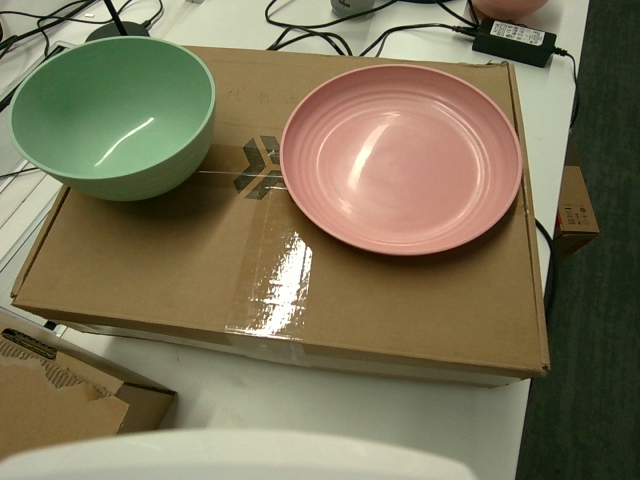
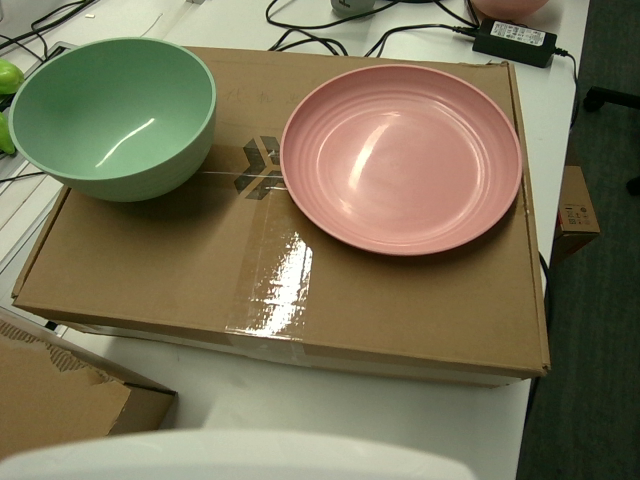
update the code for the audio part

diff --git a/audio.py b/audio.py
@@ -3,15 +3,12 @@ import pyaudio
 import os
 import tempfile
 import sys
+import numpy as np
 from contextlib import contextmanager
 from faster_whisper import WhisperModel
 
 @contextmanager
 def ignore_stderr():
-    """
-    一个上下文管理器，用于暂时屏蔽 C 语言底层的 stderr 输出。
-    主要用于解决 PyAudio 加载时 ALSA 打印大量警告的问题。
-    """
     try:
         devnull = os.open(os.devnull, os.O_WRONLY)
         old_stderr = os.dup(2)
@@ -25,34 +22,29 @@ def ignore_stderr():
 
 class VoiceListener:
     def __init__(self, model_path_or_size="small", device="auto"):
-        """
-        初始化监听模块
-        :param model_size: 模型大小，推荐 'tiny', 'base', 'small' (small 效果最好，base 速度最快且够用)
-        :param device: 'auto', 'cuda' (N卡), or 'cpu'
-        """
-        # print(f"正在加载 Whisper 模型: {model_path_or_size} ...")
+        print(f"🔄 正在加载 Whisper 模型: {model_path_or_size} (Device: {device})...")
         try:
             with ignore_stderr():
                 self.model = WhisperModel(model_path_or_size, device=device, compute_type="int8")
         except Exception as e:
-            print(f"模型加载失败: {e}")
-            print("尝试加载默认 'base' 模型...")
+            print(f"❌ 模型加载失败: {e}")
+            print("⚠ 尝试加载默认 'base' 模型...")
             self.model = WhisperModel("base", device=device, compute_type="int8")
         
         self.recognizer = sr.Recognizer()
         self.recognizer.energy_threshold = 300
         self.recognizer.dynamic_energy_threshold = True
+        self.recognizer.pause_threshold = 0.8
         
         self.mic_index = self._find_ugreen_device_index()
+        self._calibrate_noise()
 
     def _find_ugreen_device_index(self):
-        """增强版查找 UGREEN 设备 (解决乱码问题)"""
         with ignore_stderr():
             p = pyaudio.PyAudio()
             target_index = None
-            # 关键词列表
             keywords = ["UGREEN", "CM379", "USB Audio", "USB PnP"]
-            print("正在扫描音频设备...")
+            print("🔍 正在扫描音频设备...")
             try:
                 info = p.get_host_api_info_by_index(0)
                 numdevices = info.get('deviceCount')
@@ -60,47 +52,47 @@ class VoiceListener:
                     device_info = p.get_device_info_by_host_api_device_index(0, i)
                     if device_info.get('maxInputChannels') > 0:
                         raw_name = device_info.get('name')
-                        # 尝试修复中文乱码
                         try:
                             name = raw_name.encode('latin-1').decode('gbk')
                         except:
                             name = raw_name
-                        # 关键词匹配
                         for k in keywords:
                             if k.lower() in name.lower():
                                 target_index = i
-                                print(f"✅ 成功锁定设备: [{i}] {name}")
+                                print(f"✅ 锁定设备: [{i}] {name}")
                                 return target_index
-            except Exception as e:
-                print(f"设备扫描出错: {e}")
+            except Exception:
+                pass
             finally:
                 p.terminate()
-                
-        if target_index is not None:
-            print(f"\n✅ 成功锁定设备 ID: [{target_index}]")
-        else:
-            print("\n⚠ 未找到 UGREEN 设备，将使用系统默认麦克风")
-            
+        
+        if target_index is None:
+            print("⚠ 未找到 UGREEN 设备，使用系统默认麦克风")
         return target_index
 
+    def _calibrate_noise(self):
+        if self.mic_index is not None:
+            print("🔇 正在校准环境噪音 (请保持安静 1 秒)...")
+            try:
+                with ignore_stderr():
+                    with sr.Microphone(device_index=self.mic_index) as source:
+                        self.recognizer.adjust_for_ambient_noise(source, duration=1.0)
+                print("✅ 校准完成")
+            except Exception as e:
+                print(f"⚠ 校准失败: {e}")
+
     def listen_and_transcribe(self):
-        """
-        监听并进行语音转文字
-        :return: 识别出的文本字符串 (如果没有识别到则返回 None 或空字符串)
-        """
         try:
             with ignore_stderr():
                 with sr.Microphone(device_index=self.mic_index) as source:
-                    print("\n👂 正在监听... (请下达指令)")
-                    self.recognizer.adjust_for_ambient_noise(source, duration=0.5)
-                    
-                    audio_data = self.recognizer.listen(source, timeout=5, phrase_time_limit=10)
-                    print("⏹ 检测到语音，正在转录...")
+                    print("\n👂 聆听中...", end="\r")
+                    audio_data = self.recognizer.listen(source, timeout=1, phrase_time_limit=10)
+                    print("⚡ 处理中...   ", end="\r")
 
         except sr.WaitTimeoutError:
             return ""
         except Exception as e:
-            print(f"❌ 录音错误: {e}")
+            print(f"\n❌ 录音错误: {e}")
             return ""
 
         temp_wav_path = None
@@ -119,31 +111,26 @@ class VoiceListener:
             return text_output
 
         except Exception as e:
-            print(f"❌ 识别错误: {e}")
+            print(f"\n❌ 识别错误: {e}")
             return ""
         finally:
             if temp_wav_path and os.path.exists(temp_wav_path):
                 os.remove(temp_wav_path)
 
 if __name__ == "__main__":
-    model_path = "/media/zsl/zsl_disk/faster-whisper-large-v3"
+    model_path = "/home/zz/faster-whisper-large-v3"
     
-    listener = VoiceListener(model_path_or_size=model_path, device="cpu")
+    listener = VoiceListener(model_path_or_size=model_path, device="cuda")
 
     print("=======================================")
-    print("   语音控制系统已启动")
-    print("   流程: 监听 -> 识别 -> 机器人执行 -> 监听")
+    print("   语音控制系统已启动 (极速优化版)")
     print("=======================================")
+    
     while True:
         try:
             result_text = listener.listen_and_transcribe()
             if result_text and len(result_text.strip()) > 0:
-                # C. 执行机器人操作
-                # D. 操作完成后，循环回到开头，再次调用 listen_and_transcribe
-                print("🔄 准备下一轮监听...")
-            else:
-                # 如果只是超时没听到声音，或者识别为空，直接通过，继续监听
                 pass
         except KeyboardInterrupt:
-            print("\n程序已手动停止。")
+            print("\n🛑 程序停止")
             break

diff --git a/planner.py b/planner.py
@@ -131,7 +131,7 @@ class Planner:
             x1, y1, x2, y2 = det
             valid_boxes.append((x1, y1, x2, y2))
             for i, grasp_p in enumerate(grasp_points):
-                if grasp_p[0] > x1 - 30 and grasp_p[0] < x2 + 30 and grasp_p[1] > y1 - 30 and grasp_p[1] < y2 + 30:
+                if grasp_p[0] > x1 - 20 and grasp_p[0] < x2 + 20 and grasp_p[1] > y1 - 20 and grasp_p[1] < y2 + 20:
                     valid_indices.add(i)
             
             if len(valid_indices):
@@ -532,8 +532,8 @@ class Planner:
 
     def run_pipeline(self):
         while True:
-            # human_input = self.get_human_voice_input()
-            human_input = "将水果放在绿色碗里"
+            human_input = self.get_human_voice_input()
+            # human_input = "将水果放在绿色碗里"
             # human_input = "将瓶子放在粉色盘子里"
             # human_input = "将水果放在粉色盘子里"
             cprint(f"=================== 1. Get user voice input: \"{human_input}\"===================", "cyan")
